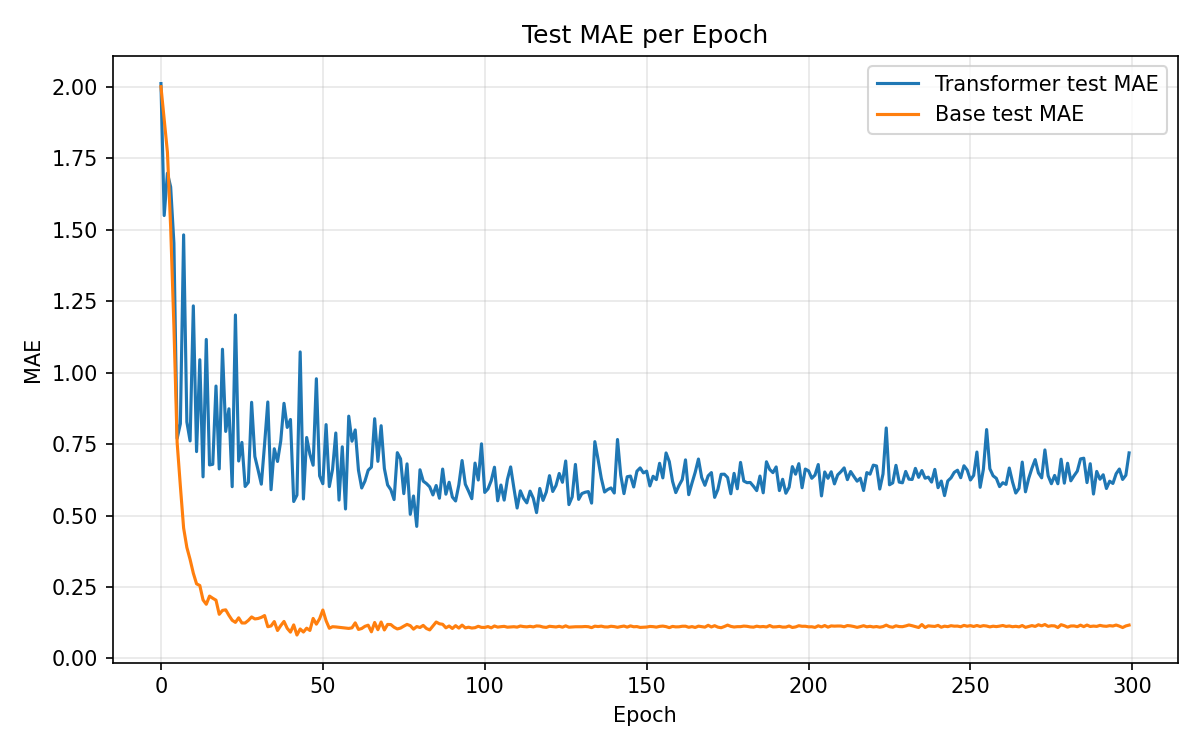
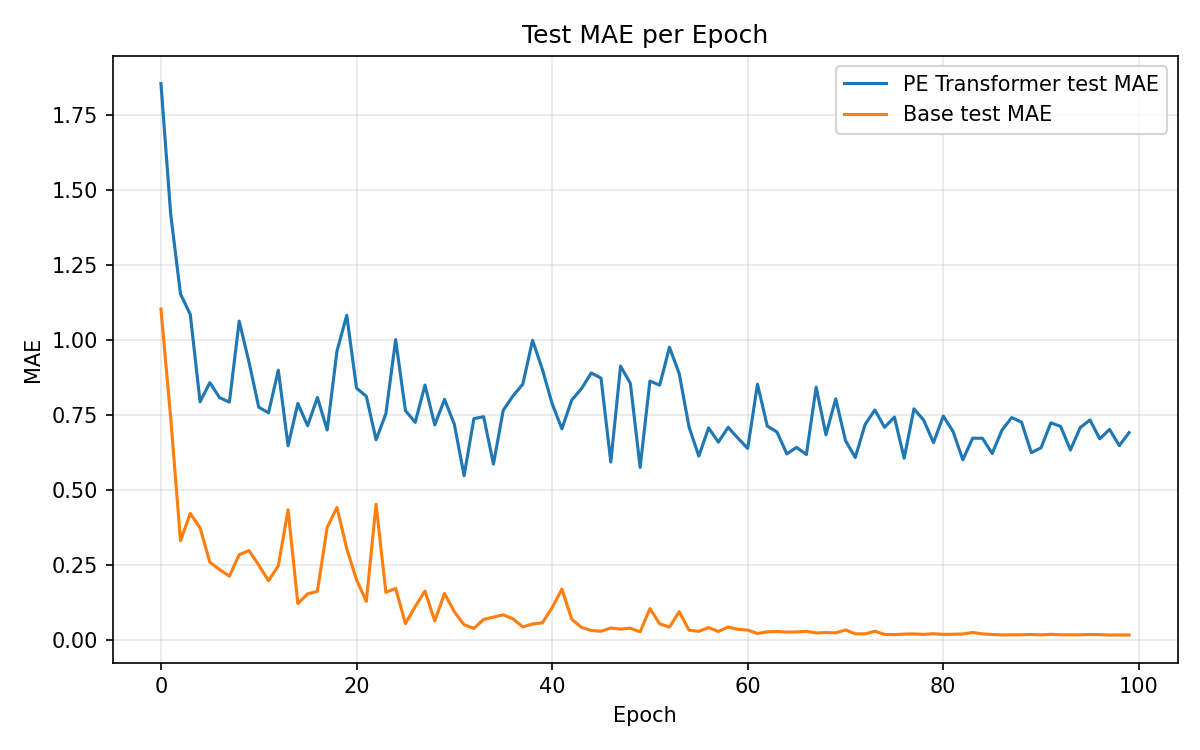
.

diff --git a/plot_base_transformer_curves.py b/plot_base_transformer_curves.py
@@ -13,8 +13,8 @@ def main() -> None:
     parser.add_argument(
         "--input",
         type=str,
-        default="base_transformer_test_curves.json",
-        help="Path to JSON file produced by train_base_transformer_json.py",
+        default="base_best_vs_pe_transformer_300.json",
+        help="Path to JSON file produced by training script.",
     )
     parser.add_argument(
         "--output",
@@ -27,8 +27,11 @@ def main() -> None:
     with open(args.input, "r", encoding="utf-8") as f:
         payload = json.load(f)
 
-    base_curve = payload.get("base_test_curve", [])
-    transformer_curve = payload.get("transformer_test_curve", [])
+    # Support both legacy and new JSON schemas.
+    base_curve = payload.get("base_test_curve", payload.get("base_best_test_curve", []))
+    transformer_curve = payload.get(
+        "transformer_test_curve", payload.get("pe_transformer_test_curve", [])
+    )
     metric = str(payload.get("metric", "mae")).upper()
 
     if not base_curve and not transformer_curve:
@@ -36,7 +39,7 @@ def main() -> None:
 
     plt.figure(figsize=(8, 5))
     if transformer_curve:
-        plt.plot(transformer_curve, label=f"Transformer test {metric}")
+        plt.plot(transformer_curve, label=f"PE Transformer test {metric}")
     if base_curve:
         plt.plot(base_curve, label=f"Base test {metric}")
 
